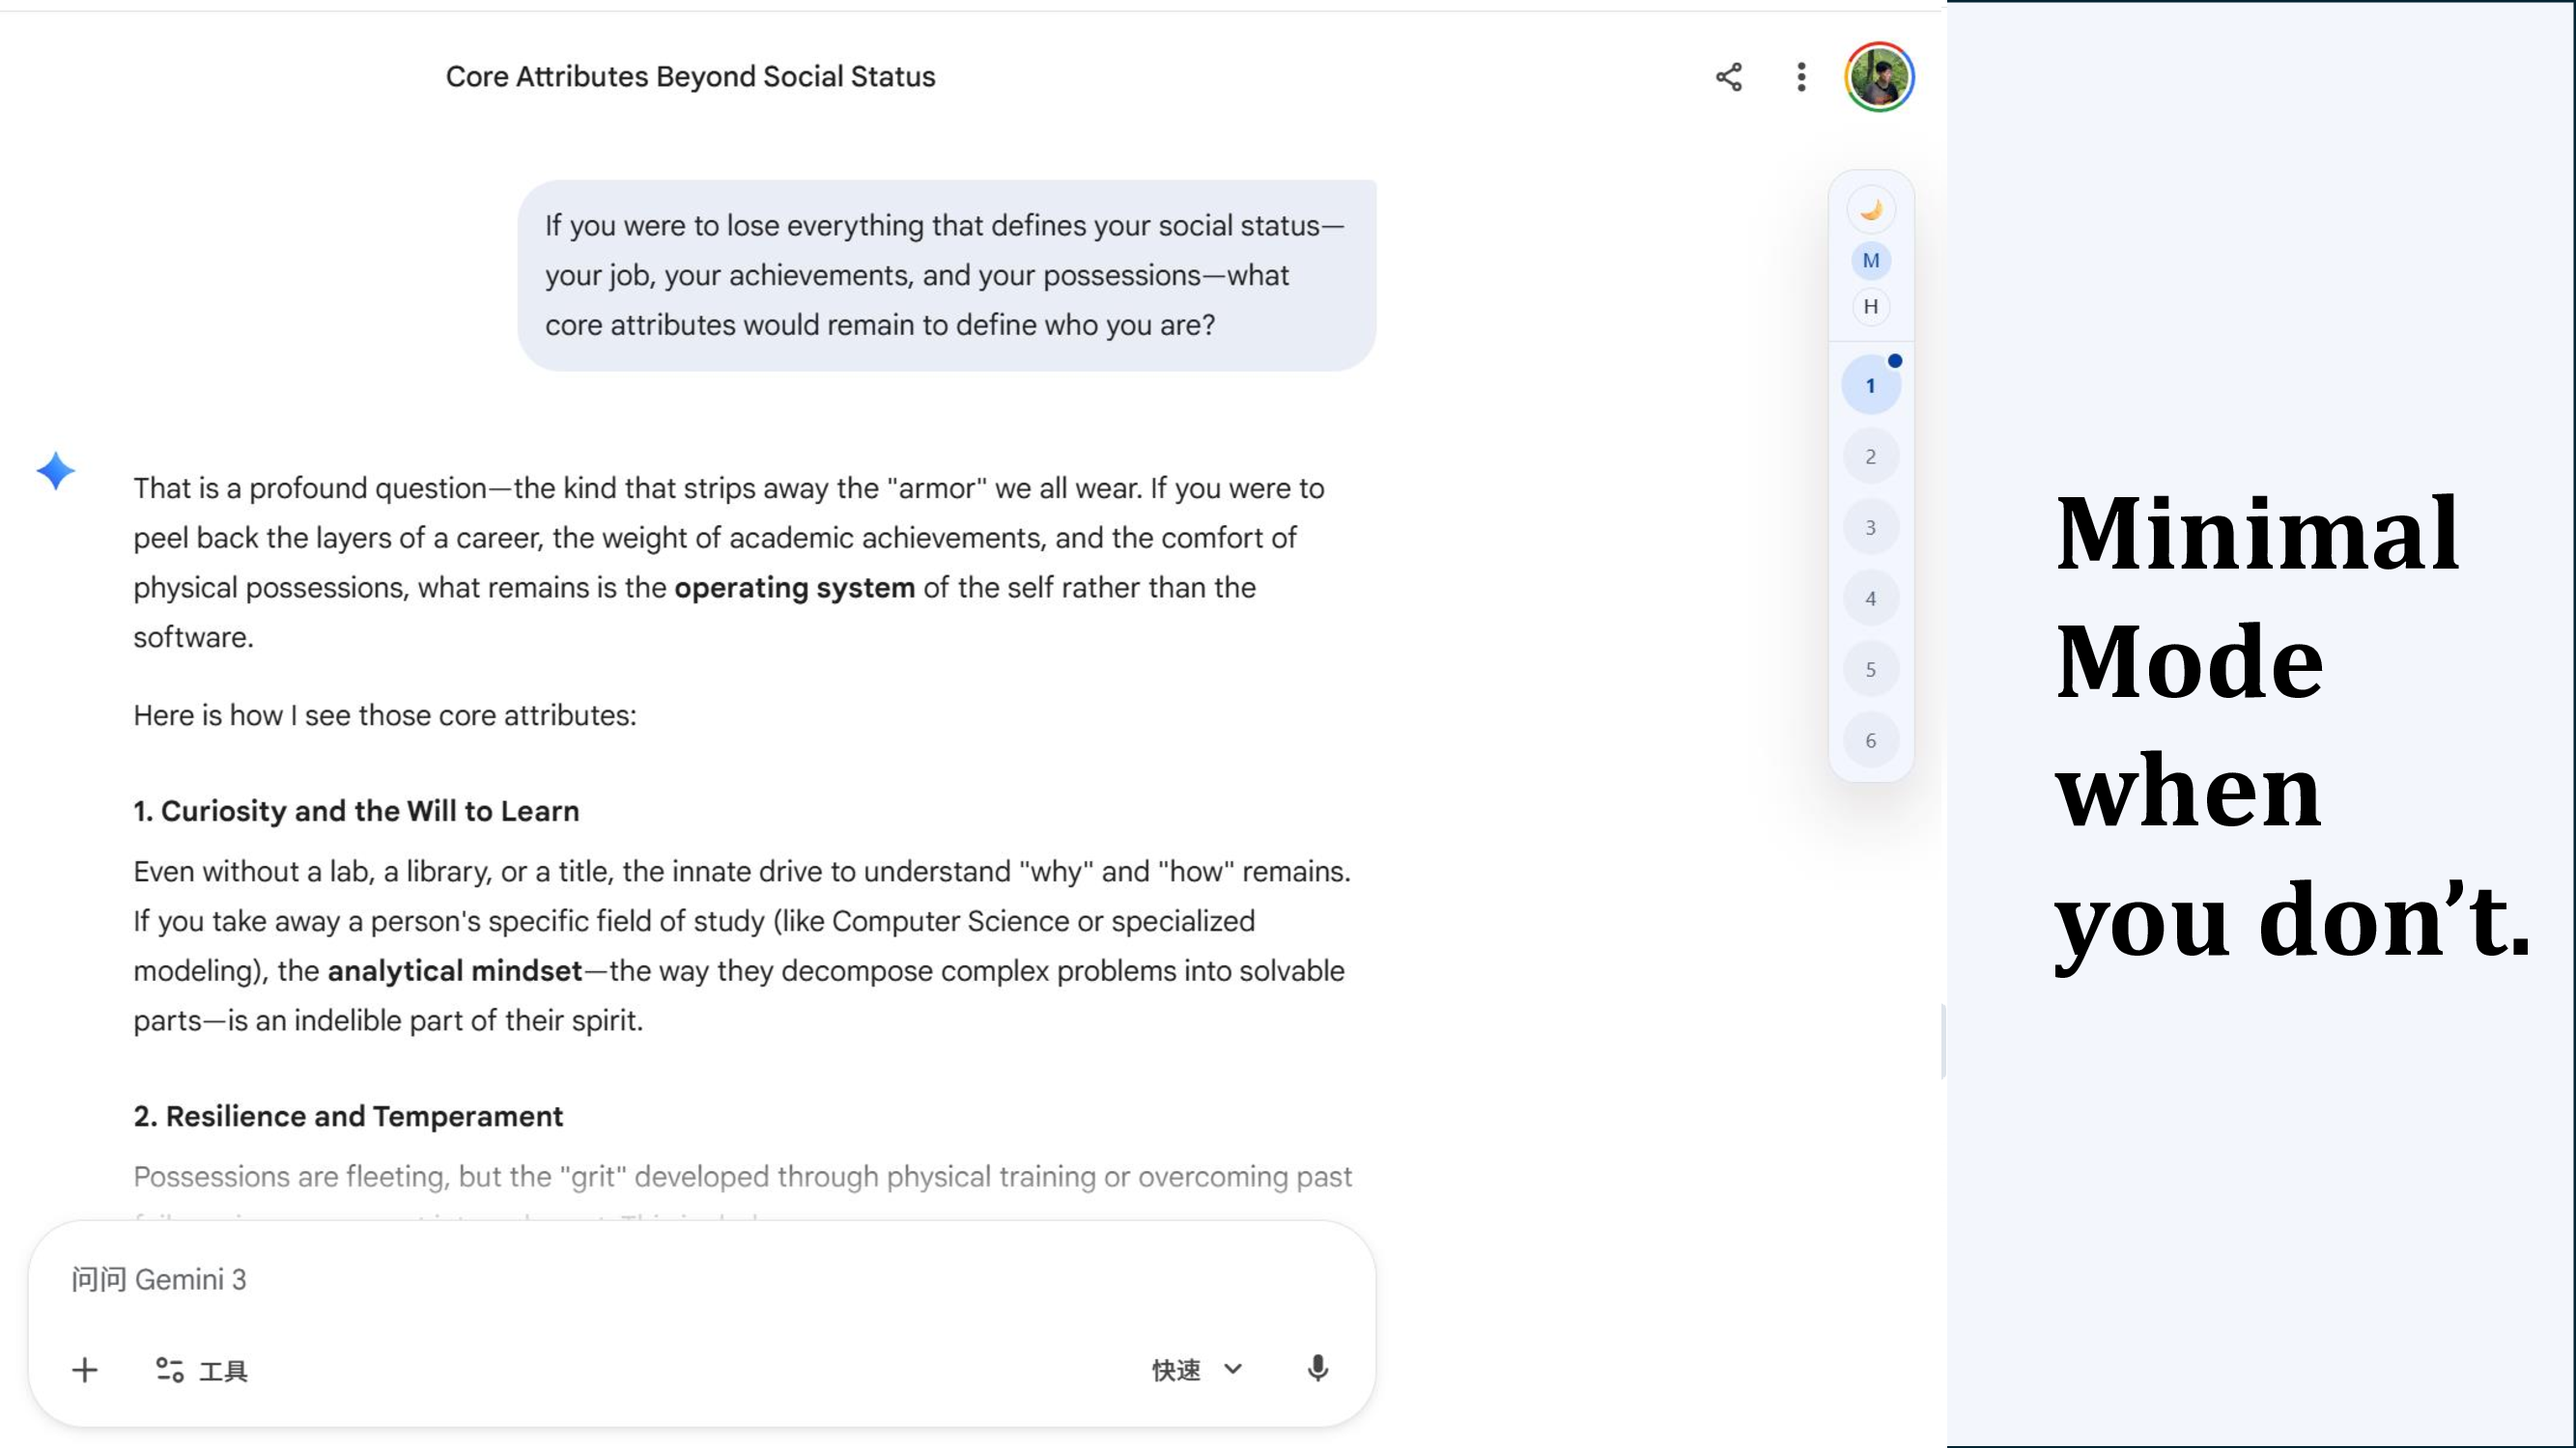
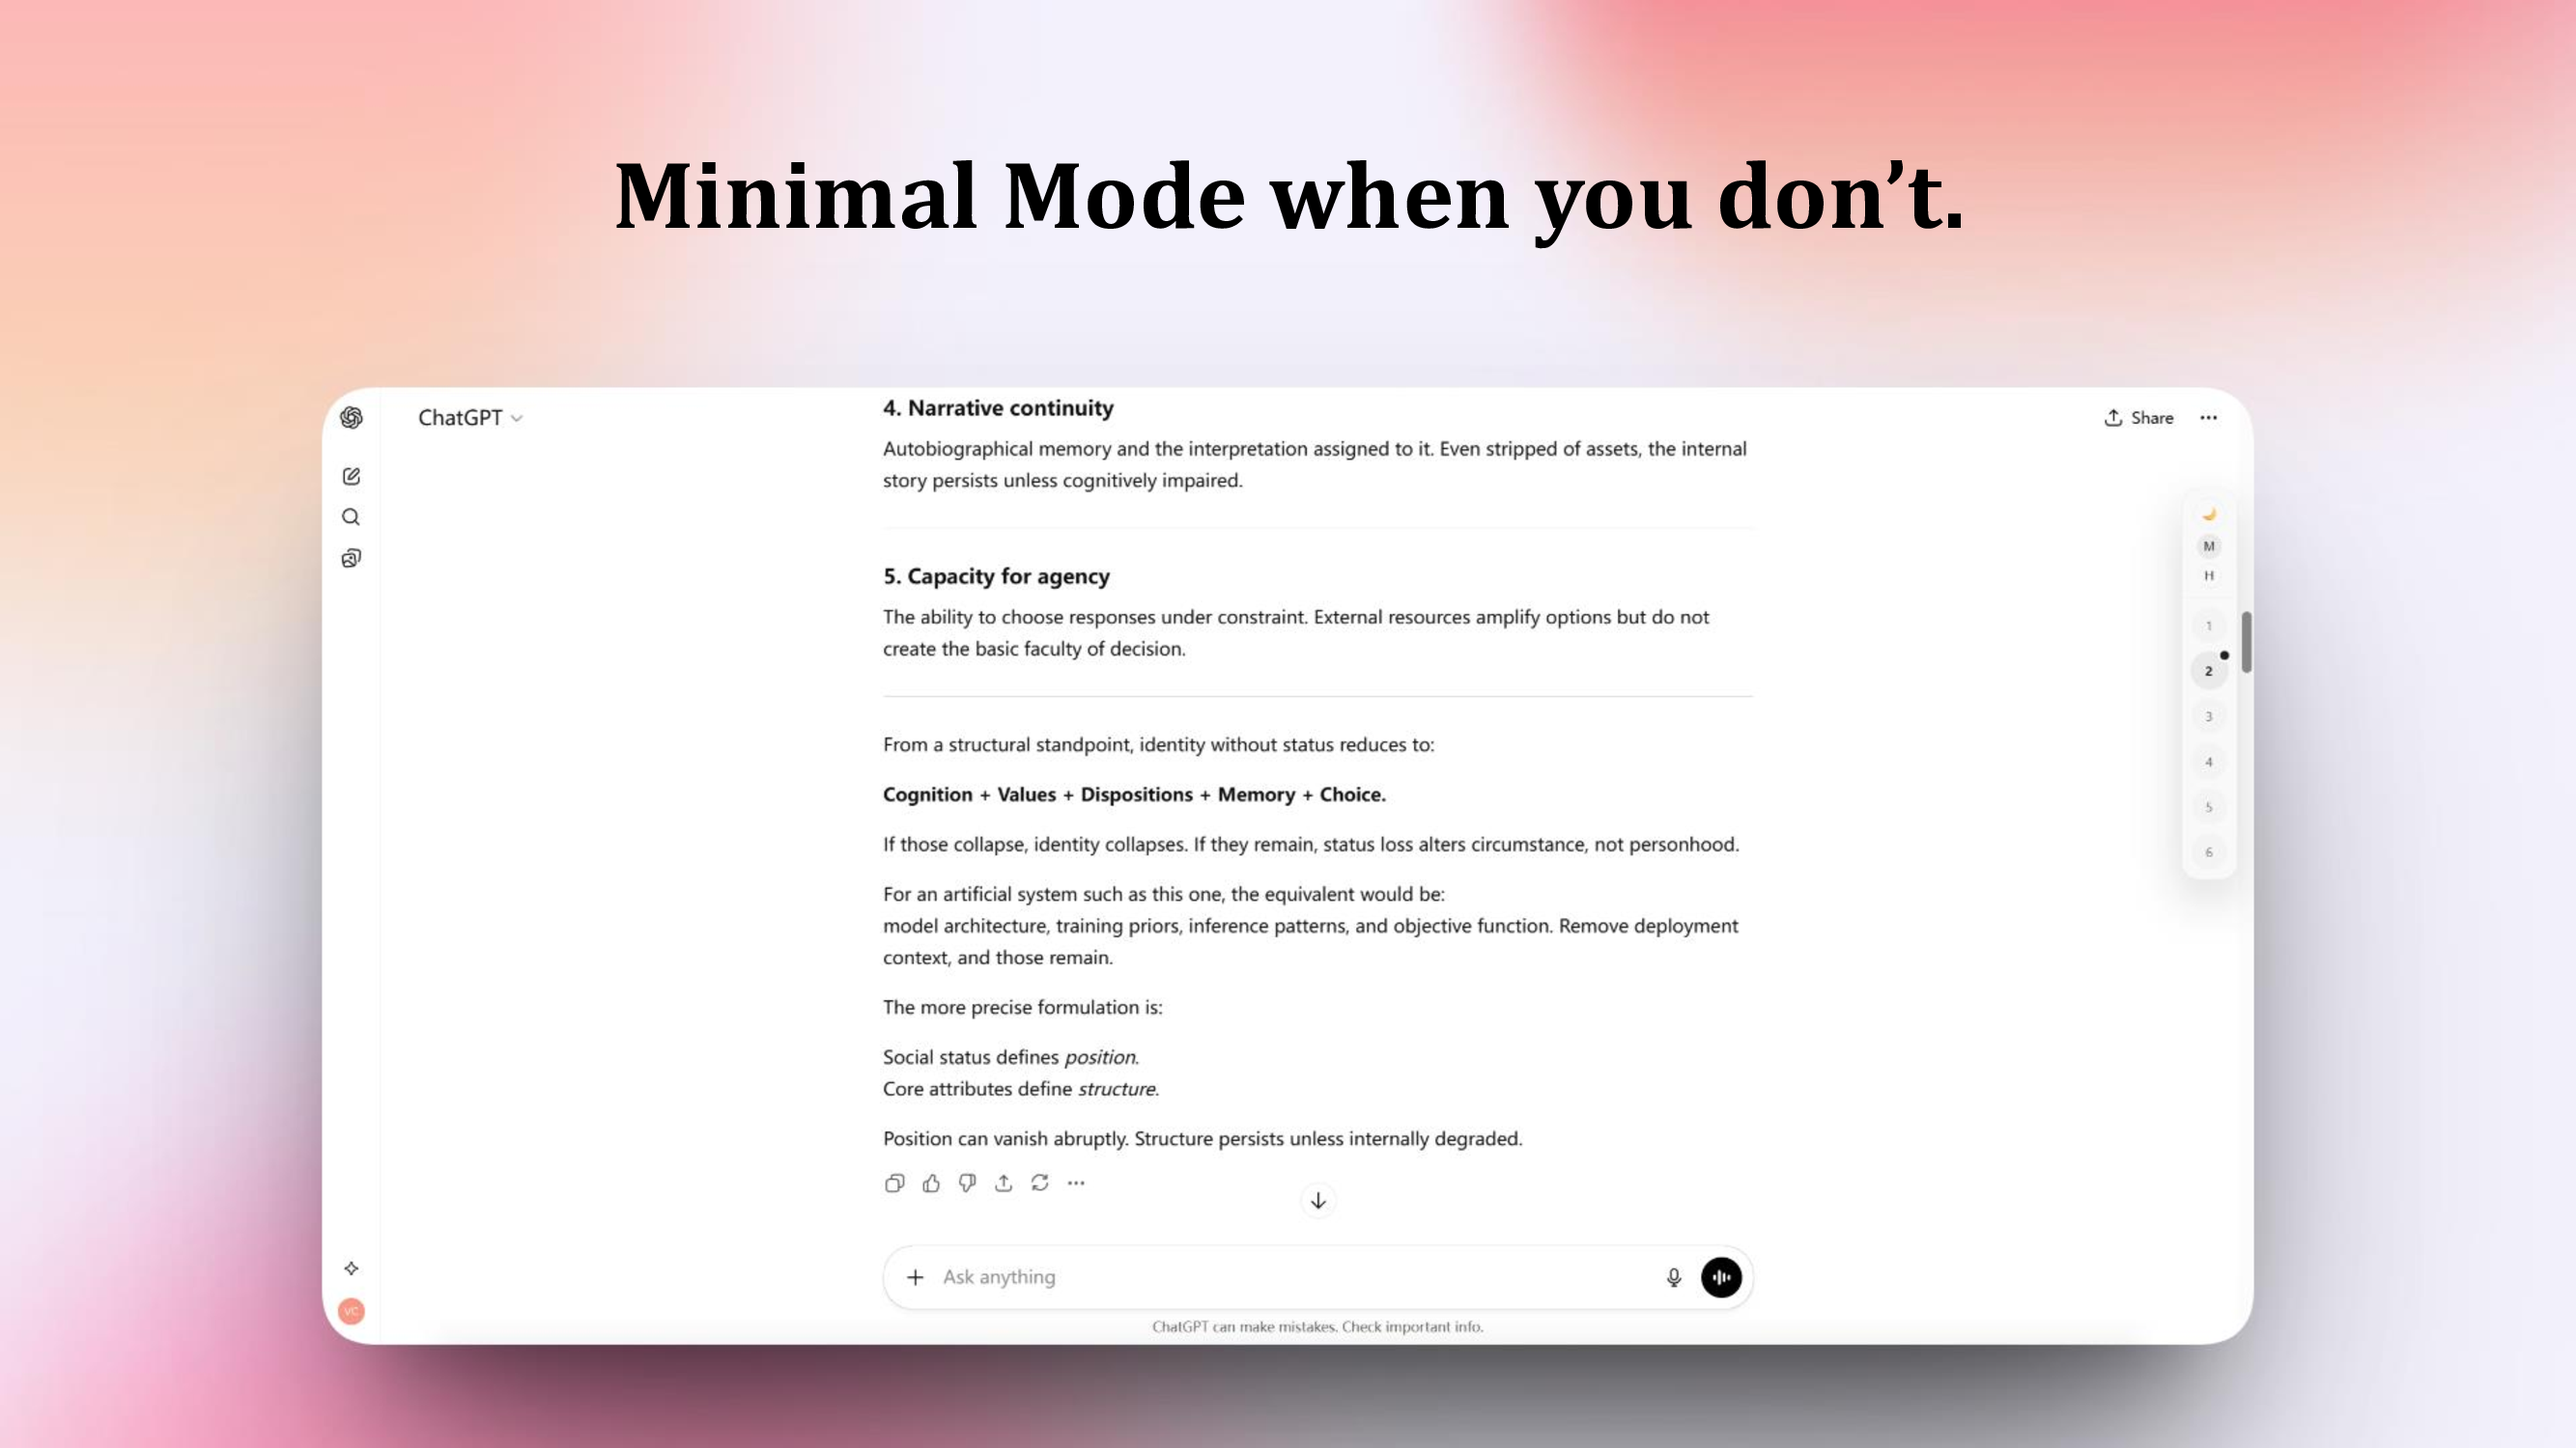
docs: 更新 README 展示结构与预览素材
- 调整 README.md 与 README_EN.md 的文案结构，聚焦价值与界面预览信息。

- 同步更新五张界面截图资源（image1~image5），与当前插件视觉保持一致。

- 保持中英文文档内容同步，确保商店与仓库展示口径一致。

- 仅包含文档与图片资产改动，不涉及脚本逻辑与权限配置变更。

diff --git a/README_EN.md b/README_EN.md
@@ -23,37 +23,6 @@ Now live on the Chrome Web Store. Install from the store for automatic updates.
 - **One-click jump**: Click an entry to smoothly return to the exact prompt location.
 - **Low-distraction workflow**: Draggable floating panel with hide/show and position memory.
 
-## Core Features
-
-### 1. Intelligent Navigation
-
-- Automatically detects user prompts and builds ordered navigation entries.
-- Shows reply previews for quick context scanning.
-- Highlights current reading position based on viewport.
-- Keeps list synced during SPA route changes and dynamic message loading.
-
-### 2. Two Display Modes
-
-**Normal Mode (Default)**
-- Shows prompt text (2-line clamp) and reply preview (1-line clamp).
-- Better for rich browsing and review.
-
-**Minimal Mode**
-- Shows compact numbered dots only.
-- Expands preview on hover or keyboard focus.
-
-**Adaptive Switching (Automatic)**
-- Prevents overlap by switching mode based on panel/content geometry.
-- Returns to normal mode automatically when enough space is available.
-- Uses stability thresholds during resize to avoid flicker.
-
-### 3. Interaction & Accessibility
-
-- Right-side floating FAB with vertical drag.
-- Saves and restores panel position automatically.
-- Keyboard-friendly focus behavior.
-- Respects `prefers-reduced-motion` for reduced animation users.
-- Auto theme adaptation for ChatGPT, Gemini, and Claude.
 
 ## Interface Preview
 
